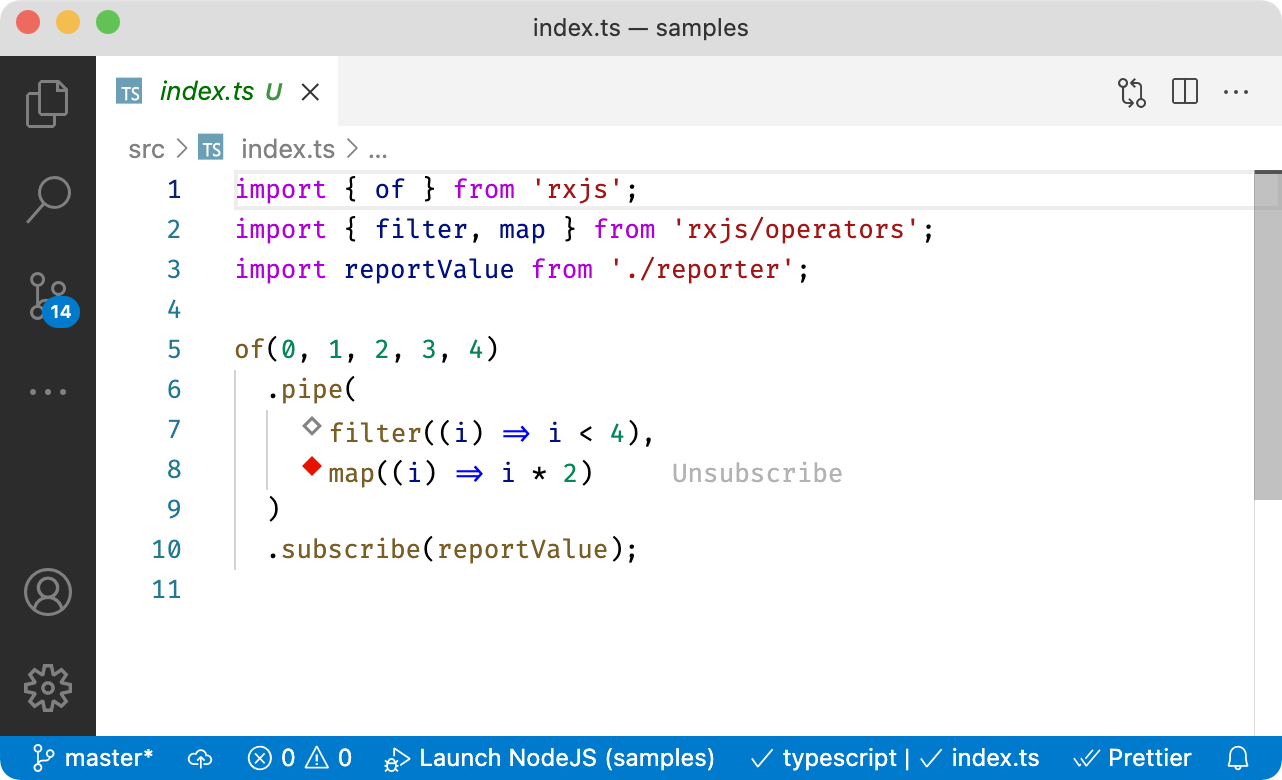
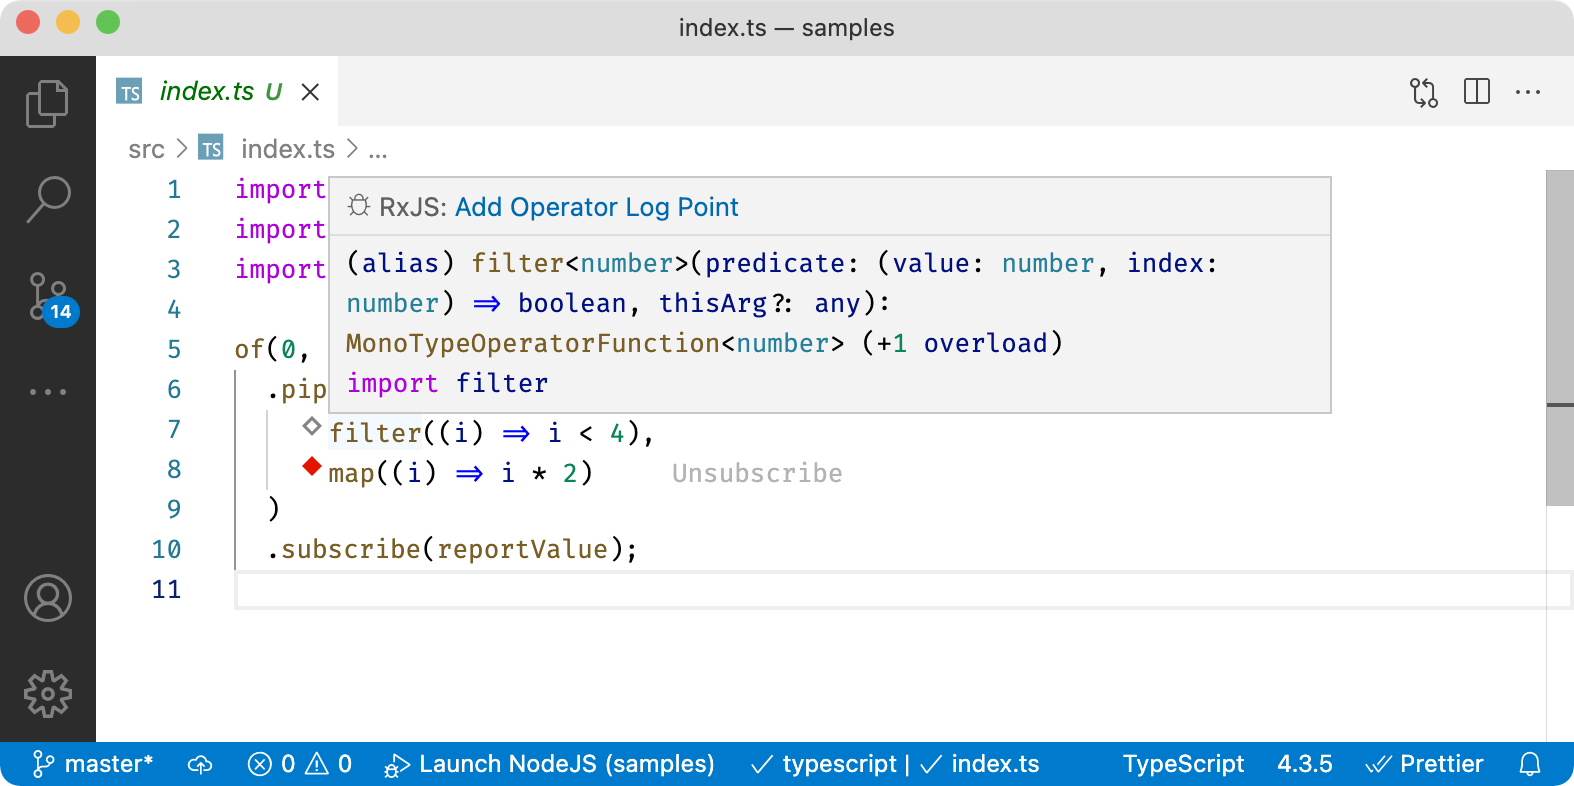
Implementation

diff --git a/content/content.md b/content/content.md
@@ -12,8 +12,11 @@ The circumstance of debugging RP programs with the wrong debugging utilities is 
 
 Within this paper, we are going to present two concrete contributions to the field of RxJS RP debugging:
 
+
 1. With *RxJS Debugging for Visual Studio Code*, an extension for Microsoft Visual Studio Code^[https://code.visualstudio.com] (vscode), engineers building RxJS applications get access to a powerful RP debugging tool. It integrates tightly with the IDE itself and requires no extra efforts to debug an RP program.
+
 2. A refined architecture for RxJS RP debuggers leveraging on the *Chrome DevTools Protocol*^[https://chromedevtools.github.io/devtools-protocol/] (CDP) for message-based communication between individual system components.
+
 
 *TODO Rewrite Before we do a deep-dive on the extensions functionality in Section [4](#sec:implementation), we will give an example for the main challenge of RP debugging in Section [2](#sec:challenge). We discuss related work in Section [3](#sec:background). Before we come to our conclusion in Section [8](#sec:conclusion), we will consider potential threats to validity in Section [6](#sec:threats_to_validity) and give an overview on potential follow-up topics, research-wise as well as practical, in Section [7](#sec:future_work).*
 
@@ -89,19 +92,21 @@ We translated these findings into the central principle for the design of our RP
 
 ## Features
 
-The first iteration of *RxJS Debugging for Visual Studio Code* solves a problem repeatedly reported in previous research and supports engineers during the instrumentation as well as the hypothesis testing phase [@Layman_Diep_Nagappan_Singer_Deline_Venolia_2013] of debugging: *Operator Log Points* make manual print statements obsolete and are based on the *probe* concept proposed by McDirmid [@McDirmid_2013] for live programming: Our extension detects operators in the source code and suggests a log point inline. Similar to a live probe, an enabled log point weaves information on an observables life cycle events[^2] into the source code editor, once the program is executed with the debugger attached.
+We made manual print statements for debugging RxJS RP programs obsolete by providing a better alternative with *RxJS Debugging for vscode*. For this, we implemented *Operator Log Points*, a similar tool to *probes* as proposed by McDirmid [McDirmid_2013] for live programming environments. The extension achieves this by continuously parsing of the source code in the current editor. The resulting AST is evaluated in order to detect operators passed to the *pipe* function of an observable[^2]. For every operator detected, the extension suggests a log point by displaying a diamond icon. A suggested log point can be enabled by hovering the mouse pointer on its icon and selecting the *Add Operator Log Point* action (see Figure [3](#fig:operator-log-points)). With this, engineers have our debugging tool right at hand without any detours.
 
-[^2]: An RxJS *Observable* is an abstraction of a reactive source. Once a consumer *subscribes* the source, the source pushes/*emits* values, *completes* (e.g. when a network request has completed), fails with an *error*, or may get *unsubscribed* from the consumer. These are the five main life cycle events engineers are interested in when debugging an observable.
+[^2]: An RxJS *Observable* is an abstraction of a reactive source. Once a consumer *subscribes* the source, the source pushes/*emits* values, *completes* (e.g. when a network request has completed), fails with an *error*, or may get *unsubscribed* from the consumer. These are the five main life cycle events engineers are interested in when debugging an observable. An operators is a node in the materialized data-flow graph. An operator transforms emitted values or composes multiple observables.
 
-![*RxJS Debugging for vscode* used to debug code from Listing [2](#lst:rp): A diamond icon indicates operator log points: Specifically, a grey outline represents a suggested log point (Line 7), a filled, red diamond an enabled log point (Line 8). Life cycle event logs are shown at the end of the respective line in the source code editor (Line 8, "Unsubscribe").](./content/operator-log-points.png)
+Once the software engineer starts the RP program with vscodes built-in JavaScript debugger, our extension displays life cycle events for all enabled log points inline with the source code which produced the event. Engineers are free to enable or disable additional log points during the debugging session.
+
+![*RxJS Debugging for vscode* used to debug code from Listing [2](#lst:rp): A diamond icon indicates operator log points: Specifically, a grey outline represents a suggested log point (Line 7), a filled, red diamond an enabled log point (Line 8). Life cycle event logs are shown at the end of the respective line in the source code editor (Line 8, "Unsubscribe"). Log points are managed by hovering a log point icon and selecting the appropriate action.](./content/operator-log-points.png)
 
 ## Architecture
 
-The technical architecture of *RxJS Debugging for vscode* is a refined version of the system proposed by Banken et al. [@Banken_Meijer_Gousios_2018] and shares its fundamental components as shown in Figure [3](#fig:architecture): The *Telemetry* component runs in the same process as the debugged RP program augmenting it. Telemetry gathers and relays life cycle events to the debuggers *UI* component which runs as an extension in the vscode process.
+The technical architecture of *RxJS Debugging for vscode* is a refined version of the system proposed by Banken et al. [@Banken_Meijer_Gousios_2018] and shares its fundamental components as shown in Figure [4](#fig:architecture): The *Telemetry* component runs in the same process as the debugged RP program augmenting it. Telemetry gathers and relays life cycle events to the debuggers *UI* component which runs as an extension in the vscode process.
 
 ![TODO do it nice & improve figure caption; The *Telemetry* component instruments the RP program (right). The *UI* component runs as an extension within vscodes process. The two components communicate with each other by piggybacking messages on the CDP communication channel, which is established by the generic vscode JavaScript debugger.](./content/architecture.png)
 
-Compared to *RxFiddle*, our implementation uses a different way to connect these two components. Where the solution by Banken et al. uses WebSockets to exchange messages, we leverage on the CDP[^3] connection, established by the generic JavaScript debugger, instead[^4]. We decided for this approach because it gives us two benefits out of the box: (i) UX-wise, the software engineer does not to decide "how" they want to debug their program (i.e. traditionally control-flow oriented or RP, data-flow oriented). They start debugging using familiar commands and RP specific debugging capabilities are provided once available without additional effort. (ii) Technically, we do not need to care for "where" the RP program the user wants to debug is running (e.g. locally in a browser or in a Node.js process on a remote computer) since this is already taken care for by the generic JavaScript debugger. The result is a robust, less complex system.
+Compared to *RxFiddle*, our implementation uses a different way to connect these two components. Where the solution by Banken et al. uses WebSockets to exchange messages, we leverage on the CDP[^3] connection, established by the generic JavaScript debugger, instead[^4]. We decided for this approach because it gives us two benefits out of the box: (i) UX-wise, the software engineer does not to decide "how" they want to debug their program (i.e. traditionally control-flow oriented or RP, data-flow oriented). They start debugging using familiar commands and RP specific debugging capabilities are provided once available without additional effort. (ii) Technically, we do not need to care for "where" the RP program the user wants to debug is running (e.g. locally in a browser or in a Node.js process on a remote computer) since this is already taken care for by the generic JavaScript debugger. The result is a robust, less complex system since we do not need to maintain an additional side channel for RP debugging communication.
 
 [^3]: JavaScript virtual machines like V8 (used in Google Chrome, Node.js) or SpiderMonkey (used in Mozilla Firefox) implement (a subset of) the *Chrome DevTools Protocol*. External debugging utilities use CDP to connect and debug JavaScript programs. vscode ships with *js-debug*, a control-flow oriented JavaScript debugger, relying on CDP.
 
